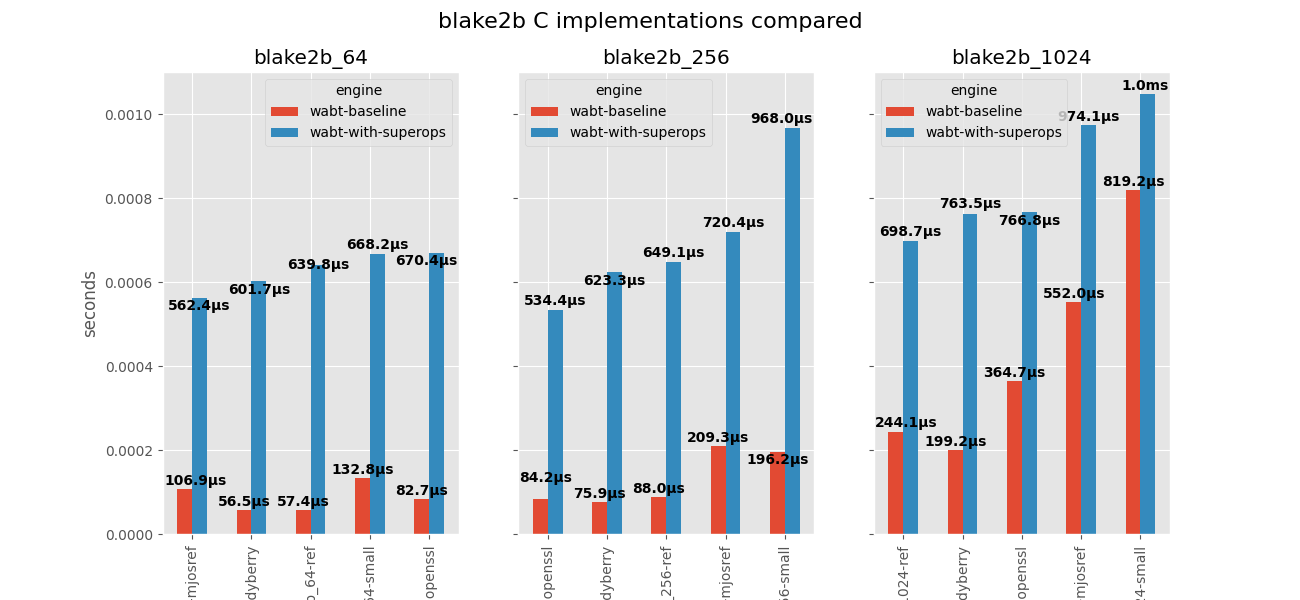
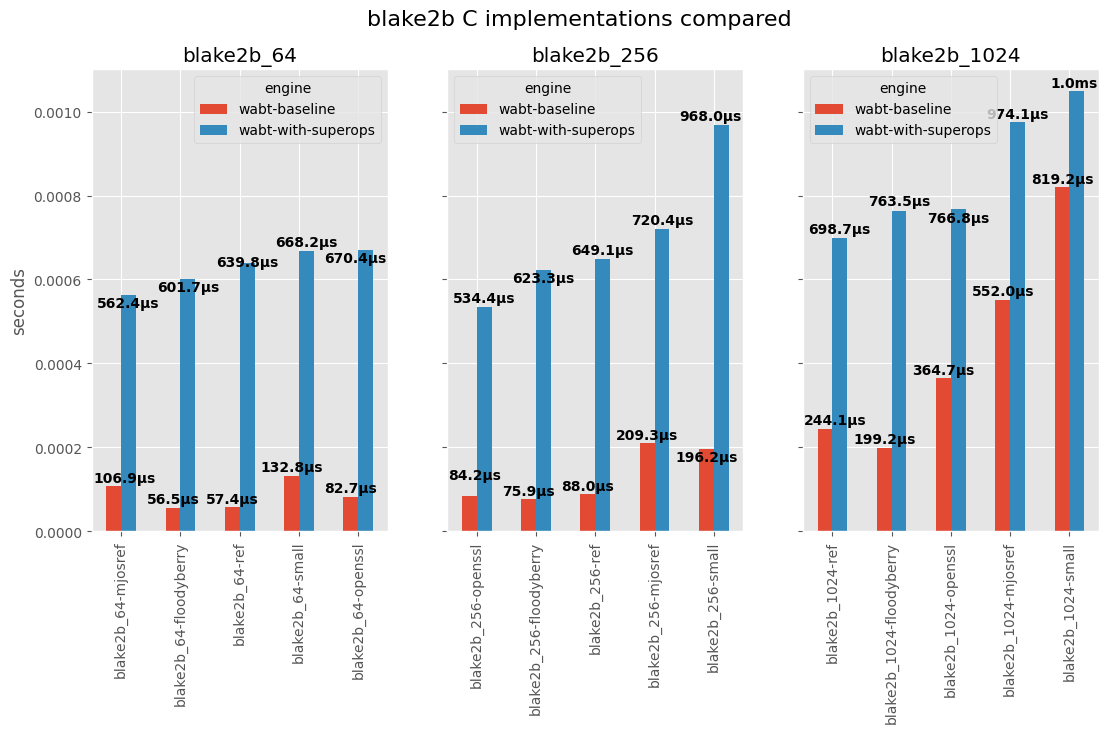
fix chart cropping in scripts, update charts

diff --git a/scripts/generate_report.py b/scripts/generate_report.py
@@ -203,7 +203,7 @@ def plotThreeTestsGrouped(df_benches, three_tests, title="Title"):
 
     f.suptitle(title, fontsize=16, y=0.98)
     print(f"plotTreeTestsGrouped: {filename}.png ")
-    plt.savefig(IMG_OUTPUT_DIR + filename + '.png')
+    plt.savefig(IMG_OUTPUT_DIR + filename + '.png', bbox_inches='tight')
 
 # Compare wabt-optimized against wabt-baseline on hash function benchmark
 plotThreeTestsGrouped(df_scout_data, ["blake2b_64", "blake2b_256", "blake2b_1024"], "blake2b C implementations compared")
@@ -226,7 +226,7 @@ def plotOneTest(df_data, suptitle="title", suptitle_pos=1.00, subtitle="subchart
     adjust_text_labels(labelBarHeights(ax))
     plt.suptitle(suptitle, fontsize=18, y=suptitle_pos)
     print(f"plotOneTest: {filename}.png")
-    plt.savefig(IMG_OUTPUT_DIR + filename + '.png')
+    plt.savefig(IMG_OUTPUT_DIR + filename + '.png', bbox_inches='tight')
 
 def plotScoutStackedTest(df_data, suptitle="title", suptitle_pos=1.00, subtitle="subchart", subtitle_size='medium'):
     filename = subtitle.strip().lower().replace(' ', '-')
@@ -243,7 +243,7 @@ def plotScoutStackedTest(df_data, suptitle="title", suptitle_pos=1.00, subtitle=
     ax.legend(labels=["execution time", "startup time"])
     plt.suptitle(suptitle, fontsize=18, y=suptitle_pos)
     print(f"plotScoutStackedTest: {filename}.png")
-    plt.savefig(IMG_OUTPUT_DIR + filename + '.png')
+    plt.savefig(IMG_OUTPUT_DIR + filename + '.png', bbox_inches='tight')
 
 # Plot biturbo benchmark:
 # biturbo-token-eth1-mainnet-stateless-block-hexary-trie-keccac256-multiproof
@@ -449,7 +449,7 @@ def plotInterpThreeTests(df_testdata, three_names, title="Title", filter_engines
     
     f.suptitle(title, fontsize=16, y=0.98)
     print(f"plotInterpThreeTests: {filename}.png")
-    plt.savefig(IMG_OUTPUT_DIR + filename + '.png')
+    plt.savefig(IMG_OUTPUT_DIR + filename + '.png', bbox_inches='tight')
 
 plotInterpThreeTests(df_interp, blake2b_test_names, title="wasm interpreters compared - blake2b")
 
@@ -491,37 +491,32 @@ def plotThreeTestsExecTime(df_testdata, three_names, title="Title", filter_engin
     
     f.suptitle(title, fontsize=16, y=0.98)
     print(f"plotThreeTestsExecTime: {filename}.png")
-    plt.savefig(IMG_OUTPUT_DIR + filename + '.png')
+    plt.savefig(IMG_OUTPUT_DIR + filename + '.png', bbox_inches="tight")
 
 
 
 # Chart of only the fast interpreters
 plotInterpThreeTests(df_interp,
                      blake2b_test_names,
-                     title="wasm interpreters compared - blake2b",
-                     filter_engines=["life", "wagon", "v8-interpreter"])
+                     title="wasm interpreters compared - blake2b")
 
 plotInterpThreeTests(df_interp,
                      modexp_test_names,
-                     title="wasm interpreters compared - modexp",
-                     filter_engines=["life", "wagon", "v8-interpreter"])
+                     title="wasm interpreters compared - modexp")
 
 plotInterpThreeTests(df_interp,
                      bn128_add_test_names,
-                     title="wasm interpreters compared - bn128_add",
-                     filter_engines=["life", "wagon", "v8-interpreter"])
+                     title="wasm interpreters compared - bn128_add")
 
 plotThreeTestsExecTime(df_interp, blake2b_test_names, title="wasm interpreter execution time - blake2b")
 
 plotThreeTestsExecTime(df_interp,
                        modexp_test_names,
-                       title="wasm interpreter execution time - modexp",
-                       filter_engines=["life", "wagon", "v8-interpreter"])
+                       title="wasm interpreter execution time - modexp")
 
 plotThreeTestsExecTime(df_interp,
                        bn128_mul_test_names,
-                       title="wasm interpreter execution time - bn128_mul",
-                       filter_engines=["life", "wagon", "v8-interpreter"])
+                       title="wasm interpreter execution time - bn128_mul")
 
 ####################
 # Compiler Results #
@@ -561,7 +556,7 @@ def plotCompilerStackedOneTest(df_benchdata, test_name, native=False):
     adjust_text_labels(labelBarHeights(ax, lower_y_bound=False))
     ax.legend(labels=["execution time", "compile time"])
     print(f"plotCompilerStackedOneTest: {filename}.png")
-    plt.savefig(IMG_OUTPUT_DIR + filename + '.png')
+    plt.savefig(IMG_OUTPUT_DIR + filename + '.png', bbox_inches='tight')
 
 plotCompilerStackedOneTest(df_compiler, blake2b_test_names[2])
 plotCompilerStackedOneTest(df_compiler, "bls12-381-aggreg-128-pubkeys-verify-sig")
@@ -645,7 +640,7 @@ def plotCompilerSpeedup(df_compiler_speedup, interp_name="interp", compiler_name
 
     #f.suptitle(title, fontsize=16, y=0.95)
     print(f"plotCompilerSpeedup: {filename}.png")
-    plt.savefig(IMG_OUTPUT_DIR + filename + '.png')
+    plt.savefig(IMG_OUTPUT_DIR + filename + '.png', bbox_inches='tight')
 
 plotCompilerSpeedup(df_wabt_v8liftoff, interp_name="wabt", compiler_name="v8-liftoff")
 
@@ -667,7 +662,7 @@ def plotInterpOneEngine(df_benchdata, engine, test_names, title=""):
     adjust_text_labels(labelBarHeights(ax))
     plt.suptitle(title, fontsize=16, y=0.95)
     print(f"plotInterpOneEngine: {filename}.png")
-    plt.savefig(IMG_OUTPUT_DIR + filename + '.png')
+    plt.savefig(IMG_OUTPUT_DIR + filename + '.png', bbox_inches='tight')
 
 plotInterpOneEngine(df_interp, 'wasmi', all_tests, "Wasmi - all Precompiles (existing and proposed) compared")
 plotInterpOneEngine(df_interp, 'wabt', all_tests, "Wabt - all Precompiles (existing and proposed) compared")
